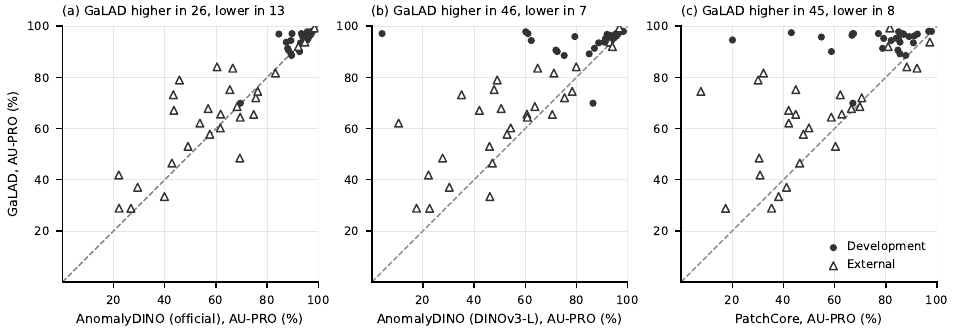
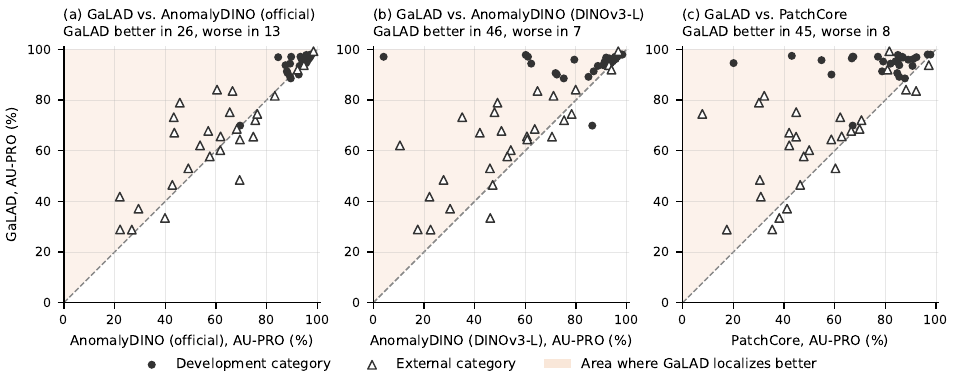
Clearer per-category and defect-size figures

diff --git a/research/make_paper_figures.py b/research/make_paper_figures.py
@@ -54,7 +54,7 @@ for ax, metric, title in ((axes[0], "aupro_30", "(a) AU-PRO (FPR $\\leq$ 0.3)"),
     ax.tick_params(labelsize=7)
     ax.grid(alpha=0.3, lw=0.5)
     ax.spines[["top", "right"]].set_visible(False)
-axes[0].set_ylabel("%", fontsize=8)
+axes[0].set_ylabel("AU-PRO (%)", fontsize=8)
 h, l = axes[0].get_legend_handles_labels()
 fig.legend(h, l, fontsize=7, frameon=False, loc="lower center", ncol=len(l), bbox_to_anchor=(0.5, 0))
 plt.tight_layout(pad=0.4, rect=(0, 0.08, 1, 1))
@@ -69,24 +69,29 @@ cat = {m: t.mean(axis=1) * 100 for m, t in cat.items() if not t.isna().any().any
 comps = [m for m in ("official", "adino", "patchcore") if m in cat]
 DEVB = ("mvtec_AD", "VisA")
 dev = np.array([c.split("/")[0] in DEVB for c in CATS])
-fig, axes = plt.subplots(1, len(comps), figsize=(2.45 * len(comps), 2.55))
-lo = min(min(cat[m].min() for m in comps), cat["galad"].min()) - 4  # common scale for all panels
+fig, axes = plt.subplots(1, len(comps), figsize=(2.45 * len(comps), 2.95))
+lo = 0
 for i, (ax, m) in enumerate(zip(np.atleast_1d(axes), comps)):
     x, y = cat[m].values, cat["galad"].values
+    ax.fill_between([lo, 100], [lo, 100], 100, color=STYLE["galad"][1], alpha=0.08, lw=0, zorder=0)  # GaLAD better
     ax.plot([lo, 100], [lo, 100], color="#888888", lw=0.8, ls="--", zorder=1)
-    ax.scatter(x[dev], y[dev], s=16, marker="o", color="#333333", lw=0, zorder=3, label="Development")
-    ax.scatter(x[~dev], y[~dev], s=18, marker="^", facecolor="white", edgecolor="#333333", lw=0.8, zorder=3,
-               label="External")
+    ax.scatter(x[dev], y[dev], s=20, marker="o", color="#333333", lw=0, zorder=3, label="Development category")
+    ax.scatter(x[~dev], y[~dev], s=22, marker="^", facecolor="white", edgecolor="#333333", lw=0.8, zorder=3,
+               label="External category")
     d = y - x
-    ax.set_title(f"({'abc'[i]}) GaLAD higher in {(d > .5).sum()}, lower in {(d < -.5).sum()}", fontsize=7, loc="left")
-    ax.set_xlim(lo, 100), ax.set_ylim(lo, 100), ax.set_aspect("equal")
-    ax.set_xlabel(f"{STYLE[m][0]}, AU-PRO (%)", fontsize=7)
-    ax.tick_params(labelsize=6.5)
+    ax.set_title(f"({'abc'[i]}) GaLAD vs. {STYLE[m][0]}\nGaLAD better in {(d > .5).sum()}, worse in {(d < -.5).sum()}",
+                 fontsize=7.5, loc="left")
+    ax.set_xlim(lo, 101), ax.set_ylim(lo, 101), ax.set_aspect("equal")
+    ax.set_xlabel(f"{STYLE[m][0]}, AU-PRO (%)", fontsize=7.5)
+    ax.tick_params(labelsize=7)
     ax.grid(alpha=0.3, lw=0.5)
     ax.spines[["top", "right"]].set_visible(False)
-np.atleast_1d(axes)[0].set_ylabel("GaLAD, AU-PRO (%)", fontsize=7)
-np.atleast_1d(axes)[-1].legend(fontsize=6.5, frameon=False, loc="lower right", handletextpad=0.2)
-plt.tight_layout(pad=0.4)
+np.atleast_1d(axes)[0].set_ylabel("GaLAD, AU-PRO (%)", fontsize=7.5)
+h, l = np.atleast_1d(axes)[0].get_legend_handles_labels()
+h.append(plt.Rectangle((0, 0), 1, 1, color=STYLE["galad"][1], alpha=0.15, lw=0))
+l.append("Area where GaLAD localizes better")
+fig.legend(h, l, fontsize=7.5, frameon=False, loc="lower center", ncol=3, bbox_to_anchor=(0.5, 0))
+plt.tight_layout(pad=0.4, rect=(0, 0.07, 1, 1))
 plt.savefig(FIG / "scatter.pdf")
 print(f"wrote {FIG / 'scatter.pdf'} ({', '.join(comps)})")
 
@@ -95,7 +100,7 @@ q = area.quantile([1 / 3, 2 / 3]).values
 groups = [("Small", area <= q[0], f"$\\leq${q[0]:.1f}%"), ("Medium", (area > q[0]) & (area <= q[1]), f"{q[0]:.1f}–{q[1]:.1f}%"),
           ("Large", area > q[1], f"$>${q[1]:.1f}%")]
 rng = np.random.default_rng(0)
-fig, ax = plt.subplots(figsize=(3.5, 2.4))
+fig, ax = plt.subplots(figsize=(4.3, 2.9))
 w = 0.8 / len(comps)
 for j, m in enumerate(comps):
     for i, (_, sel, _) in enumerate(groups):
@@ -107,13 +112,13 @@ for j, m in enumerate(comps):
                     color="#333333", lw=0.8, capsize=2, zorder=3)
 ax.axhline(0, color="#333333", lw=0.8)
 ax.set_xticks(range(len(groups)))
-ax.set_xticklabels([f"{g}\n{r}" for g, s, r in groups], fontsize=6.5)
-ax.set_xlabel("Median defect area of the category (share of the image)", fontsize=7)
-ax.set_ylabel("AU-PRO gain of GaLAD (points)", fontsize=7)
-ax.tick_params(axis="y", labelsize=6.5)
+ax.set_xticklabels([f"{g} defects\n{r} of the image\n{s.sum()} categories" for g, s, r in groups], fontsize=7.5)
+ax.set_ylabel("AU-PRO gain of GaLAD (points)", fontsize=8)
+ax.tick_params(axis="y", labelsize=7.5)
 ax.grid(axis="y", alpha=0.3, lw=0.5)
 ax.spines[["top", "right"]].set_visible(False)
-ax.legend(fontsize=6.5, frameon=False, title="GaLAD minus", title_fontsize=6.5)
+ax.legend(fontsize=7.5, frameon=False, title="Gain of GaLAD over:", title_fontsize=7.5, loc="upper right")
+ax.set_ylim(top=ax.get_ylim()[1] * 1.45)  # room for the legend above the bars
 plt.tight_layout(pad=0.4)
 plt.savefig(FIG / "size.pdf")
 print(f"wrote {FIG / 'size.pdf'}")
